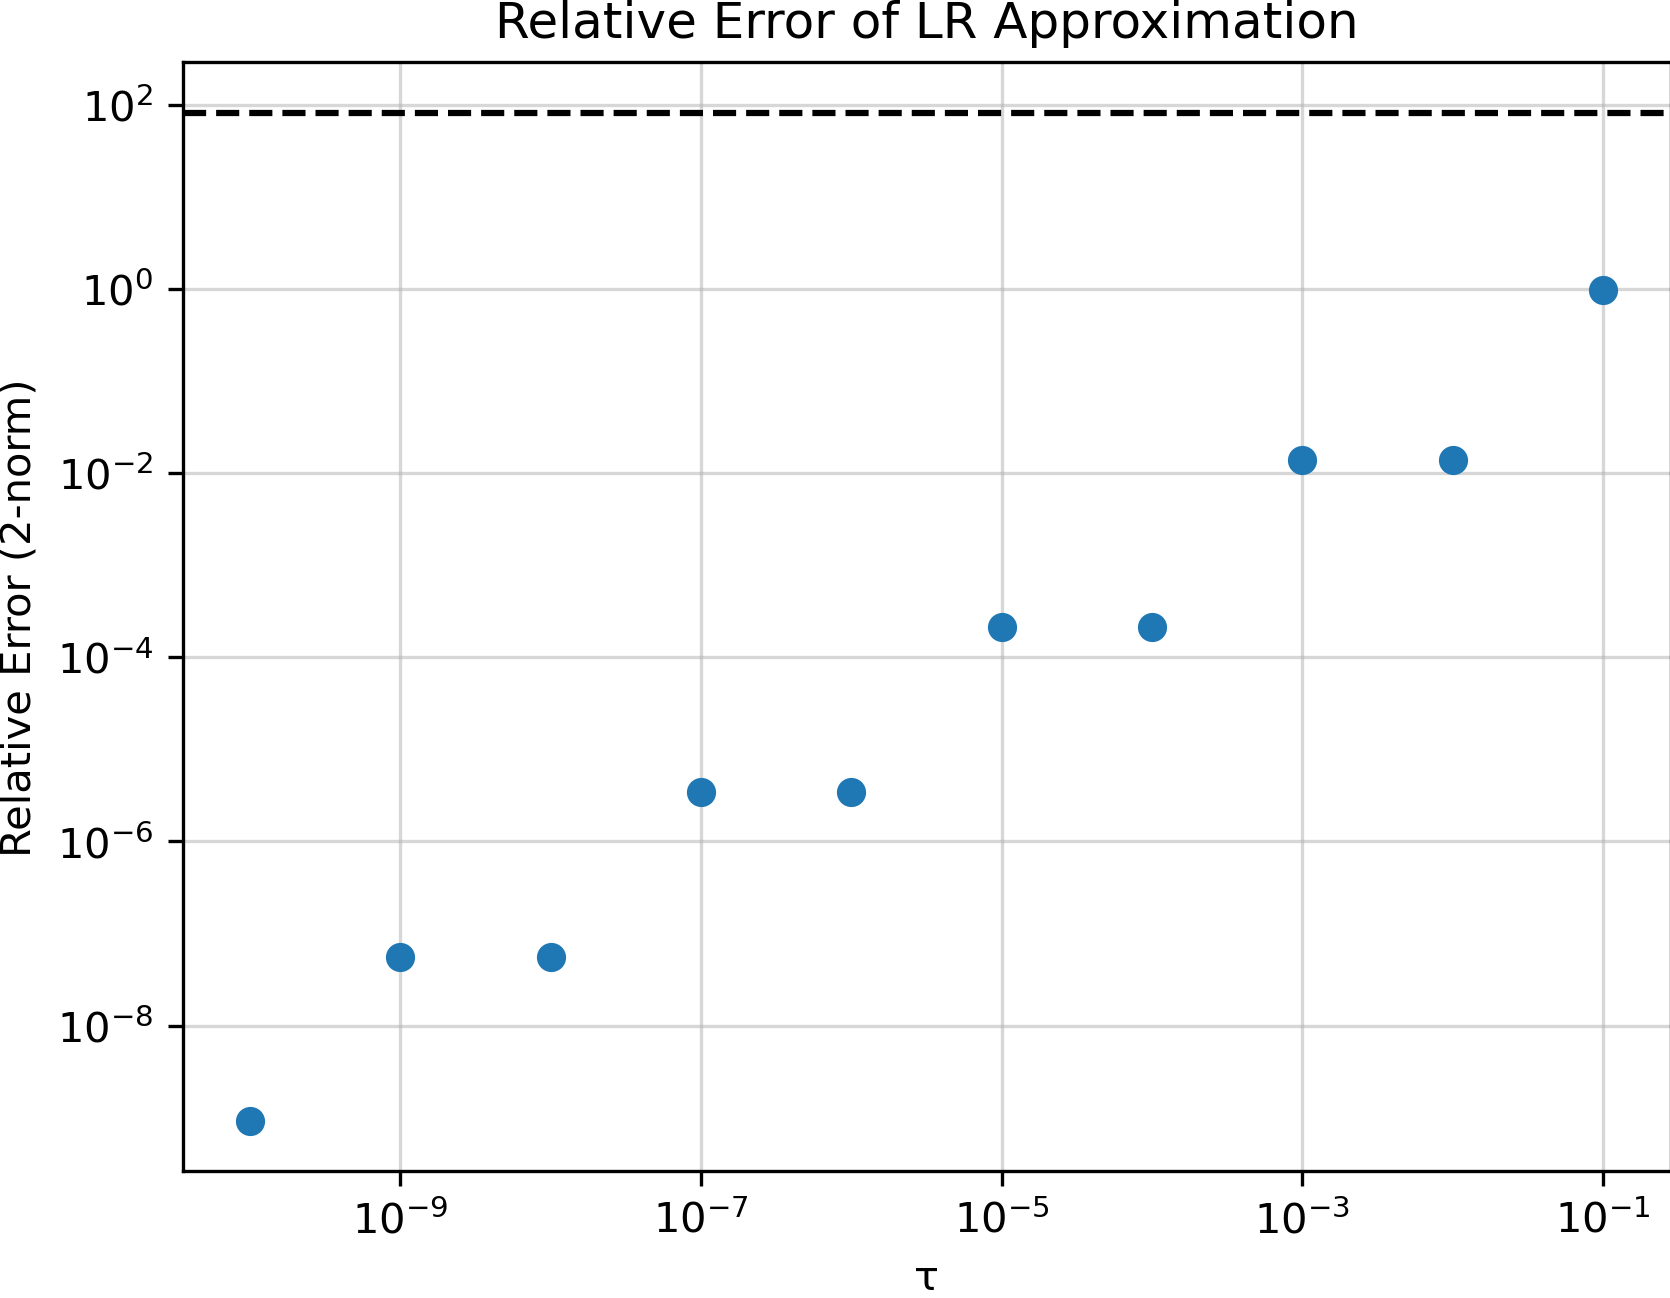
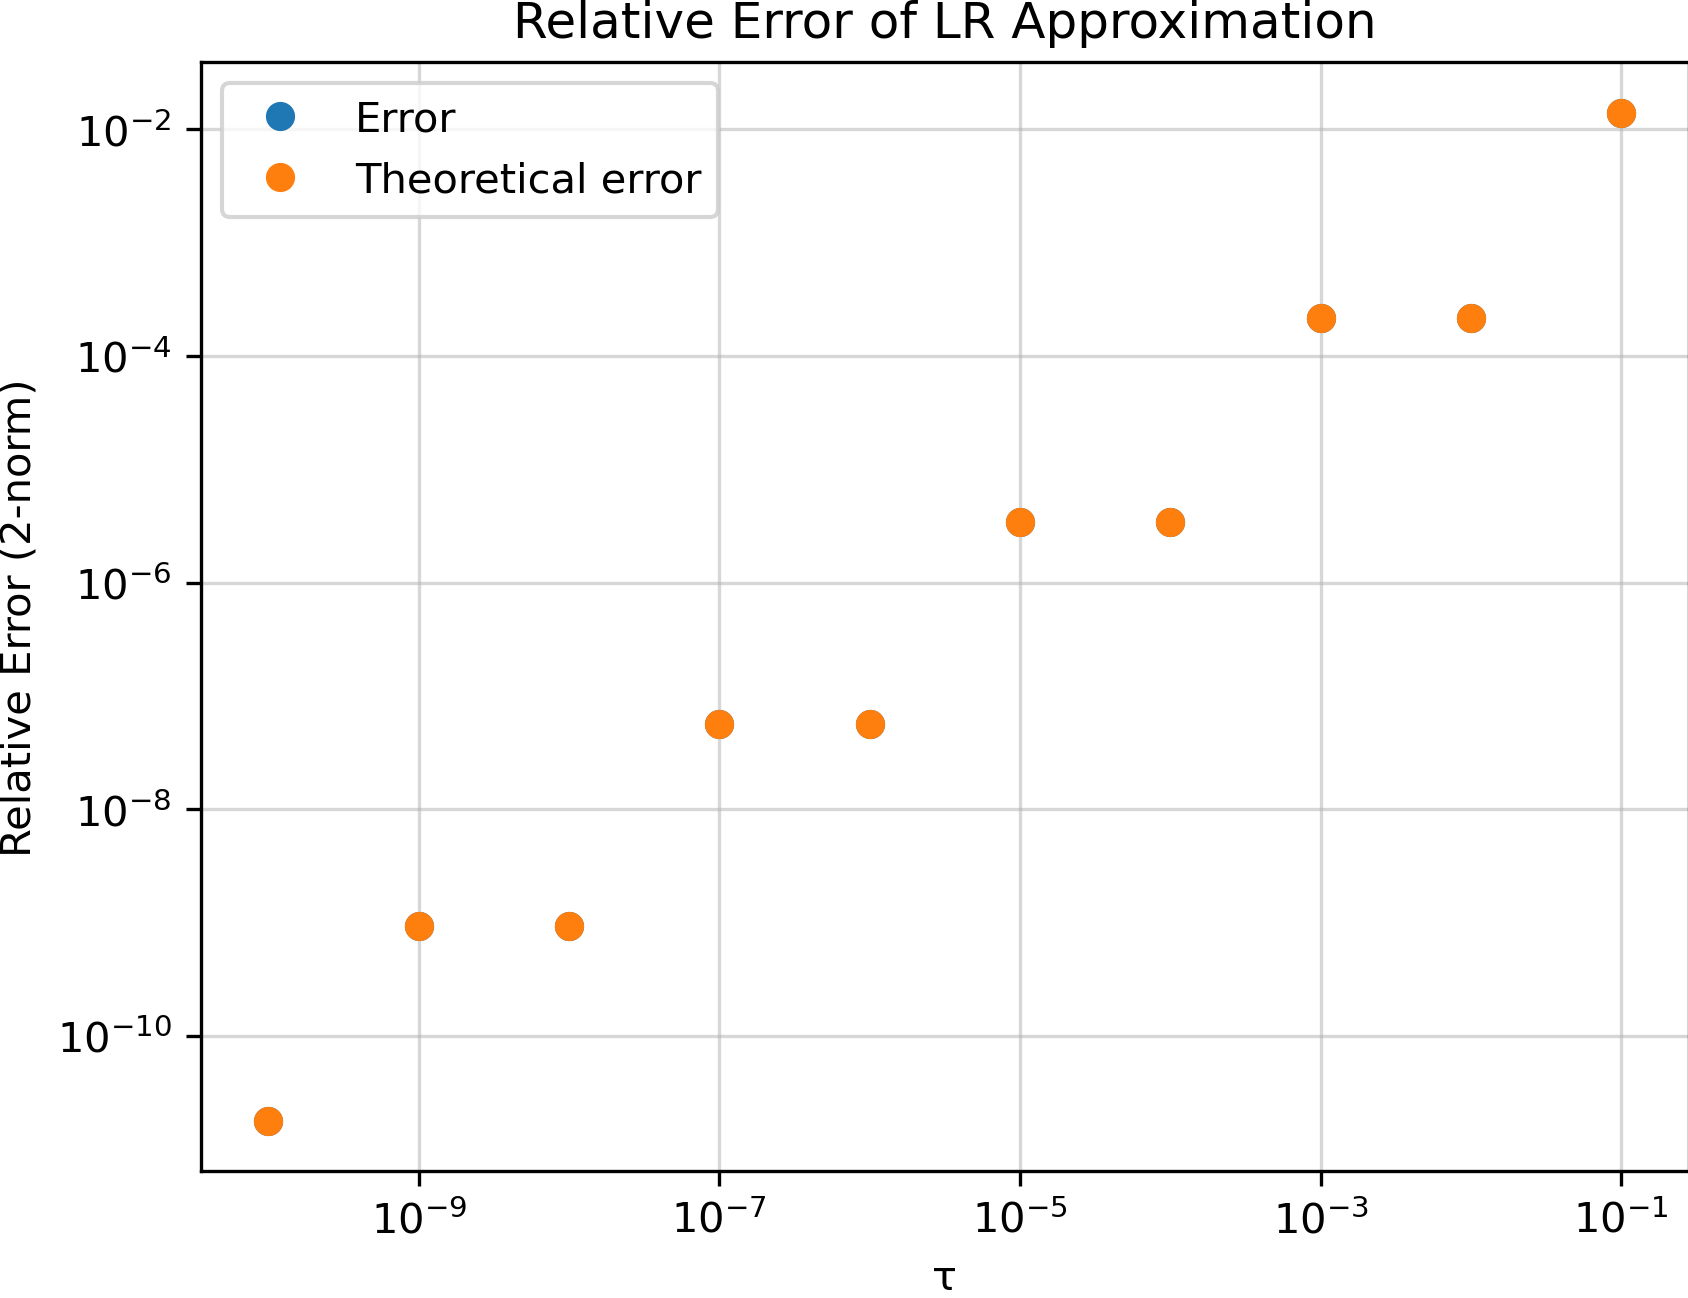
1. fixed part2 LR approximation 2. fixed part2 error calculation 3. modified part1 condition number plot with proper legend location 4. added part1 rank fitted curves

diff --git a/part1/part1.py b/part1/part1.py
@@ -5,6 +5,7 @@ import matplotlib.pyplot as plt
 import matplotlib
 
 from time import time
+from scipy.optimize import curve_fit
 from logger import set_logger, info
 matplotlib.use('TkAgg')
 
@@ -13,7 +14,7 @@ set_logger(log_path=os.path.join('../logger', 'log.txt'))
 
 def construct_A(lambda_, theta, delta, W, D):
     k = 2 * np.pi/lambda_
-    N = int(W/delta)
+    N = int(W/delta) + 1
 
     r_t = np.zeros((N, 2))
     r_r = np.zeros((N, 2))
@@ -47,8 +48,38 @@ def compute_SVD(A):
     return s_values, svd_time, ranks, condition_numbers
 
 
+def plot_fit_rank(threshold, save=False, log=False):
+    def rank_function(N, a, b):
+        """
+        Example fitting function: Rank = a * N^b
+        """
+        return a * np.power(N, b)
+
+    t_dics = {'τ=1e-2': 0, 'τ=1e-5': 1, 'τ=1e-8': 2}
+    for case, data in results.items():
+        ranks = [r[t_dics[threshold]] for r in data['ranks']]
+        N = np.array(data['N'])
+        plot_func = plt.loglog if log else plt.plot
+
+        plot_func(N, ranks, 'o', label=f'{case}')
+
+        popt, _ = curve_fit(rank_function, N, ranks)
+        a, b = popt  # Fitted parameters
+        N_fit = np.linspace(min(N), max(N), 500)
+        rank_fit = rank_function(N_fit, a, b)
+        plot_func(N_fit, rank_fit, '-', label=f'Fitted curve: Rank = {a:.2f} * N^{b:.2f}')
+    plt.xlabel('Number of Antennas (N)')
+    plt.ylabel('Rank')
+    plt.title(f'Matrix Rank - {threshold}')
+    plt.legend()
+    plt.grid(True, which="both", ls="-", alpha=0.5)
+    if save:
+        plt.savefig(f'part1_b_rank_{threshold[2:]}.png', dpi=300, bbox_inches='tight', pad_inches=0)
+
+
 if __name__ == '__main__':
     sections = ['b']  # Possible sections: 'a', 'b', 'c', 'd'
+    save = True
     for section in sections:
         if section == 'a':
             lambda_ = 1
@@ -94,14 +125,16 @@ if __name__ == '__main__':
             lambda_ = 1
             delta = lambda_ / 10
             theta = np.pi / 2
-            W_values = [4 * lambda_ * (2 ** i) for i in range(7)]
-            N_values = [int(w/delta) for w in W_values]
+            W_values = [4 * lambda_ * (2 ** i) for i in range(9)]
+            N_values = [int(w/delta)+1 for w in W_values]
+            case_to_msg = {'D = 4λ': 'D = 4lambda',
+                           'D = W': 'D = W',
+                           'D = W²/λ': 'D = W²/lambda'}
+            D_cases = {'D = 4λ': lambda W: 4 * lambda_,
+                       'D = W': lambda W: W,
+                       'D = W²/λ': lambda W: W ** 2 / lambda_
+                       }
 
-            D_cases = {
-                'D = 4λ': lambda W: 4 * lambda_,
-                'D = W': lambda W: W,
-                'D = W²/λ': lambda W: W ** 2 / lambda_
-            }
             if os.path.exists(r'results_b.pkl'):
                 with open(r'results_b.pkl', 'rb') as f:
                     results = pickle.load(f)
@@ -117,7 +150,7 @@ if __name__ == '__main__':
                                         delta=delta,
                                         W=W,
                                         D=D)
-                        info(f'Section B: A with {case}, W={W}, N={N} has been constructed')
+                        info(f'Section B: A with {case_to_msg[case]}, W={W}, N={N} has been constructed')
                         s_values, svd_time, ranks, condition_number = compute_SVD(A)
                         info(f'Section B: SVD has been calculated')
                         results[case]['N'].append(N)
@@ -131,7 +164,7 @@ if __name__ == '__main__':
                 plt.loglog(data['N'], data['time'], 'o', label=case, markersize=8)
 
             # Theoretical complexity O(N^3)
-            N_theory = np.logspace(1.5, 3, 100)
+            N_theory = np.logspace(1.5, 4, 100)
             time_theory = 1e-7 * N_theory ** 3  # Adjust the constant for visual fit
             plt.loglog(N_theory, time_theory, 'k--', label='O(N³) trend')
 
@@ -140,32 +173,44 @@ if __name__ == '__main__':
             plt.title('SVD Computation Complexity')
             plt.legend()
             plt.grid(True, which="both", ls="-", alpha=0.5)
-            plt.savefig('part1_b_svd_complexity.png', dpi=300, bbox_inches='tight', pad_inches=0)
+            if save:
+                plt.savefig('part1_b_svd_complexity.png', dpi=300, bbox_inches='tight', pad_inches=0)
             plt.show()
             plt.close()
 
             for case, data in results.items():
-                plt.semilogx(data['N'], [r[0] for r in data['ranks']], 'o', label=f'{case}, τ=1e-2')
-                plt.semilogx(data['N'], [r[1] for r in data['ranks']], 's', label=f'{case}, τ=1e-5')
-                plt.semilogx(data['N'], [r[2] for r in data['ranks']], '^', label=f'{case}, τ=1e-8')
+                plt.plot(data['N'], [r[0] for r in data['ranks']], 'o', label=f'{case}, τ=1e-2')
+                plt.plot(data['N'], [r[1] for r in data['ranks']], 's', label=f'{case}, τ=1e-5')
+                plt.plot(data['N'], [r[2] for r in data['ranks']], '^', label=f'{case}, τ=1e-8')
 
             plt.xlabel('Number of Antennas (N)')
             plt.ylabel('Rank')
             plt.title('Matrix Rank for Different Truncation Thresholds')
             plt.legend()
             plt.grid(True, which="both", ls="-", alpha=0.5)
-            plt.savefig('part1_b_rank.png', dpi=300, bbox_inches='tight', pad_inches=0)
+            if save:
+                plt.savefig('part1_b_rank_log.png', dpi=300, bbox_inches='tight', pad_inches=0)
             plt.show()
             plt.close()
 
+            plot_fit_rank(threshold='τ=1e-2', save=save, log=True)
+            plot_fit_rank(threshold='τ=1e-5', save=save, log=True)
+            plot_fit_rank(threshold='τ=1e-8', save=save, log=True)
+
+            plt.figure(figsize=(9, 6))
             for i, (case, data) in enumerate(results.items()):
-                plt.loglog(data['N'], data['condition'], 'o', label=['τ=1e-2', 'τ=1e-5', 'τ=1e-8'])
+                plt.loglog(data['N'], [c[0] for c in data['condition']], 'o', label=f'{case}, τ=1e-2')
+                plt.loglog(data['N'], [c[1] for c in data['condition']], 's', label=f'{case}, τ=1e-5')
+                plt.loglog(data['N'], [c[2] for c in data['condition']], '^', label=f'{case}, τ=1e-8')
                 plt.xlabel('Number of Antennas (N)')
                 plt.ylabel('Condition Number')
-                plt.title(f'Condition Number of Matrix A, {case}')
+                plt.title(f'Condition Number of Matrix A')
                 plt.legend()
                 plt.grid(True, which="both", ls="-", alpha=0.5)
-
-                plt.savefig(f'part1_b_condition_{i}.png', dpi=300, bbox_inches='tight', pad_inches=0)
-                plt.show()
-                plt.close()
+                plt.legend(loc='center left', bbox_to_anchor=(-0.5, 0.5), ncol=1,
+                           columnspacing=1.5, handletextpad=1.5, borderaxespad=0.5)
+                plt.subplots_adjust(left=0.3)
+            if save:
+                plt.savefig(f'part1_b_condition_all_log.png', dpi=300, bbox_inches='tight', pad_inches=0)
+            plt.show()
+            plt.close()

diff --git a/part2/part2.py b/part2/part2.py
@@ -13,7 +13,7 @@ set_logger(log_path=os.path.join('../logger', 'log.txt'))
 
 def construct_A(lambda_, theta, delta, W, D):
     k = 2 * np.pi/lambda_
-    N = int(W/delta)
+    N = int(W/delta) + 1
 
     r_t = np.zeros((N, 2))
     r_r = np.zeros((N, 2))
@@ -49,17 +49,17 @@ def compute_SVD(A):
 
 def low_rank_approximation(A, tau):
     U, s, Vh = np.linalg.svd(A)
-    k = np.sum(s > tau) - 1
+    k = np.sum(s > tau)
     A_lr = U[:, :k] @ np.diag(s[:k]) @ Vh[:k, :]
-    return A_lr, k+1, s[:k]
+    return A_lr, k, s
 
 
 def compute_error(A, A_lr):
     return np.linalg.norm(A - A_lr) #/ np.linalg.norm(A)
 
 
-def theoretical_error(lr_s_values):
-    return np.sqrt(np.sum(lr_s_values**2))
+def theoretical_error(s_values, rank):
+    return np.sqrt(np.sum(s_values[rank:]**2))
 
 
 if __name__ == '__main__':
@@ -82,14 +82,14 @@ if __name__ == '__main__':
     times = []
 
     for tau in tau_values:
-        A_lr, rank, lr_s_values = low_rank_approximation(A, tau)
+        A_lr, rank, s_values = low_rank_approximation(A, tau)
 
         calc_time = np.mean(timeit.repeat(lambda: low_rank_approximation(A, tau), repeat=15, number=1))
         ranks.append(rank)
         errors.append(compute_error(A, A_lr))
-        theoretical_errors.append(theoretical_error(lr_s_values))
+        theoretical_errors.append(theoretical_error(s_values, rank))
         times.append(calc_time)
-        info(f'LR τ={tau} approximation has been calculated')
+        info(f'LR tau={tau} approximation has been calculated')
 
     plt.semilogx(tau_values, ranks, 'o')
     plt.xlabel('τ')
@@ -100,11 +100,12 @@ if __name__ == '__main__':
     plt.show()
     plt.close()
 
-    plt.loglog(tau_values, errors, 'o')
-    plt.axhline(y=theoretical_errors[0], color='k', linestyle='--')
+    plt.loglog(tau_values, errors, 'o', label='Error')
+    plt.loglog(tau_values, theoretical_errors, 'o', label='Theoretical error')
     plt.xlabel('τ')
     plt.ylabel('Relative Error (2-norm)')
     plt.title('Relative Error of LR Approximation')
+    plt.legend()
     plt.grid(True, which="both", ls="-", alpha=0.5)
     plt.savefig('lr_approx_error.png', dpi=300, bbox_inches='tight', pad_inches=0)
     plt.show()
